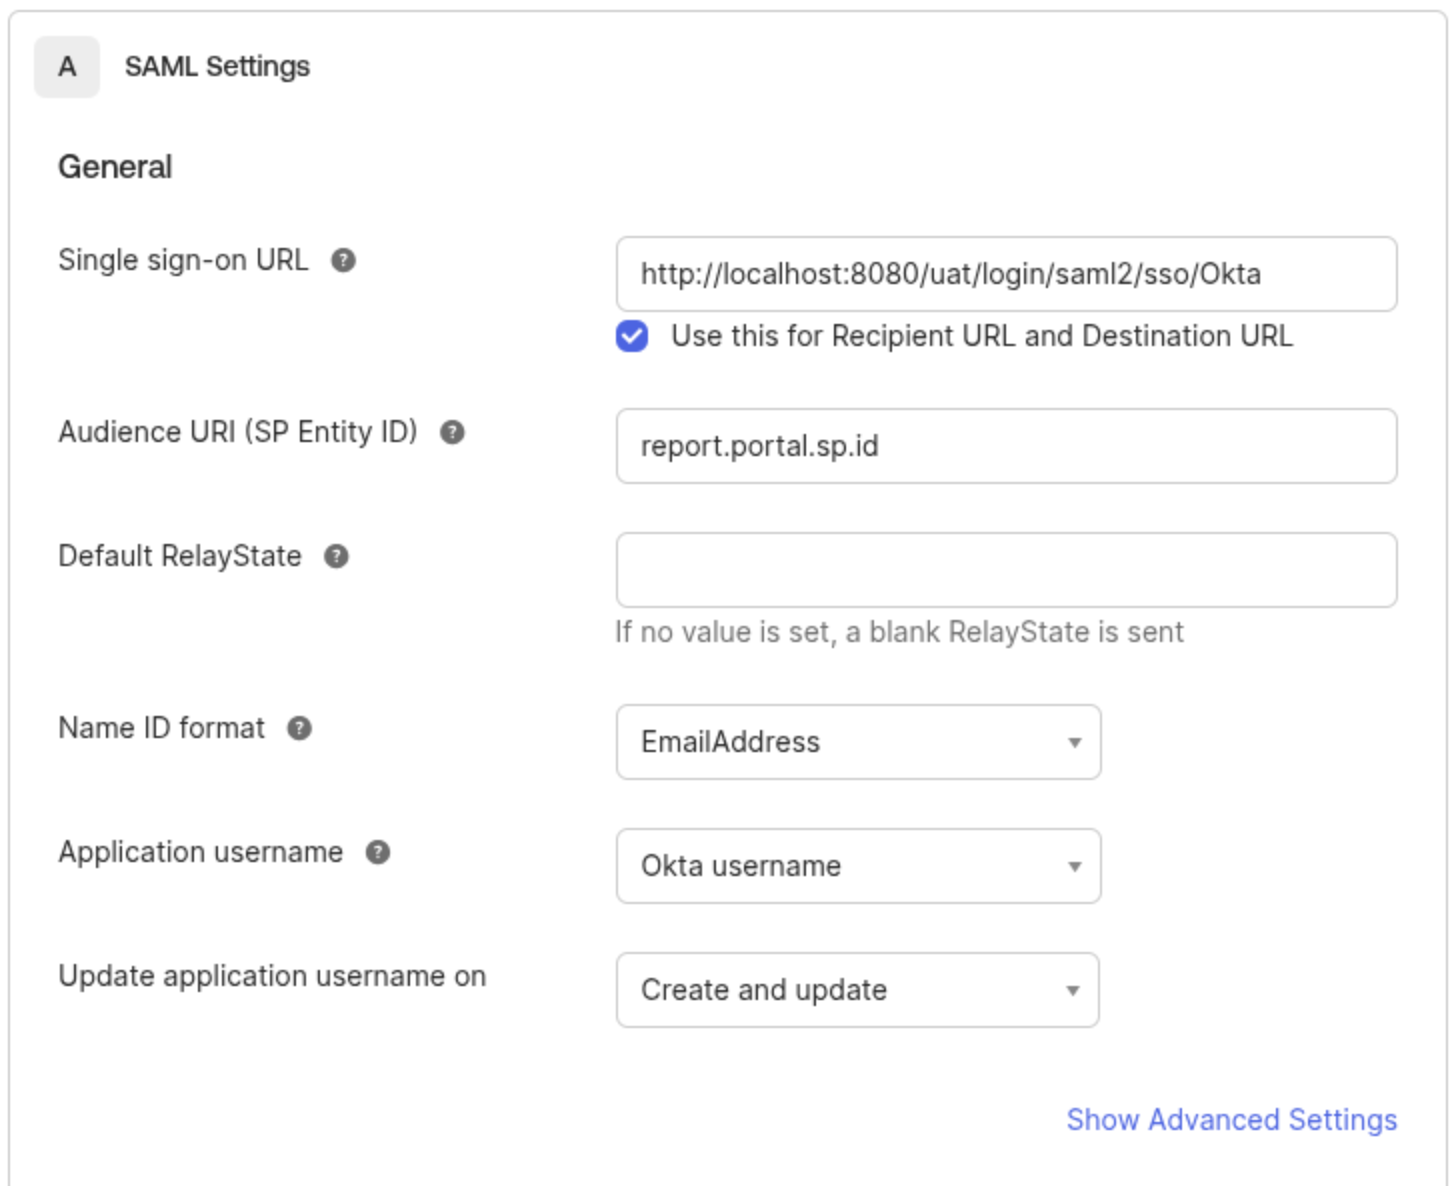
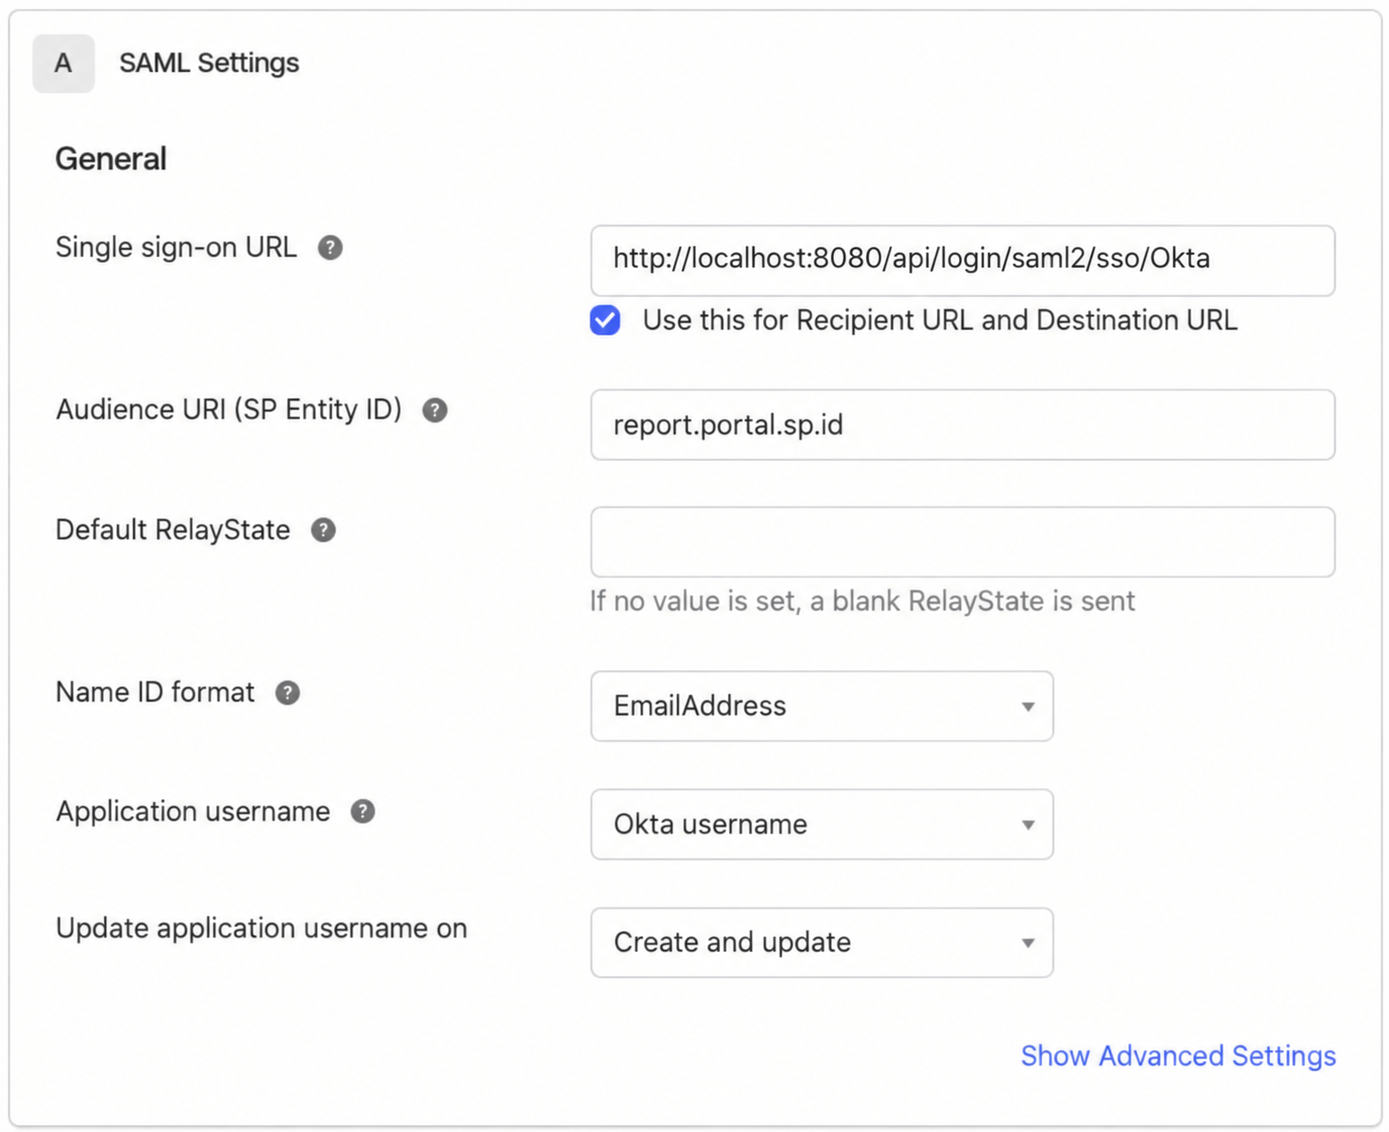
Documentation for 26.1

diff --git a/docs/integrations/authorization/GitHub.md b/docs/integrations/authorization/GitHub.md
@@ -13,11 +13,11 @@ To enable this feature you need to [register new application in Github](https://
 
 Fill the following fields:
 
-| Name                       | Value                                      | Description                                           |
-|----------------------------|--------------------------------------------|-------------------------------------------------------|
+| Name                       | Value                                        | Description                                           |
+|----------------------------|----------------------------------------------|-------------------------------------------------------|
 | Application name           | `Report Portal`                              | Just something which allow you recognize what's this. |
-| Homepage URL               | `https://{HOST}:{PORT}/uat/sso/user`         | Replace with `{HOST}` and `{PORT}` with appropriate values of your instance. Naturally you can omit `:{PORT}` if it's default port for HTTPS protocol. | 
-| Authorization callback URL | `https://{HOST}:{PORT}/uat/sso/login/github` | As in the previous field replace with `{HOST}` and `{PORT}` with your appropriate values. | 
+| Homepage URL               | `https://{HOST}:{PORT}/api/sso/user`         | Replace with `{HOST}` and `{PORT}` with appropriate values of your instance. Naturally you can omit `:{PORT}` if it's default port for HTTPS protocol. | 
+| Authorization callback URL | `https://{HOST}:{PORT}/api/sso/login/github` | As in the previous field replace with `{HOST}` and `{PORT}` with your appropriate values. | 
 
 Once new application is created, you will have Client ID. Click on "Generate a new client secret" to get Client Secret, but do not close the window until you configure the Authorization on RP, since it will never show you the Secret again.
 
